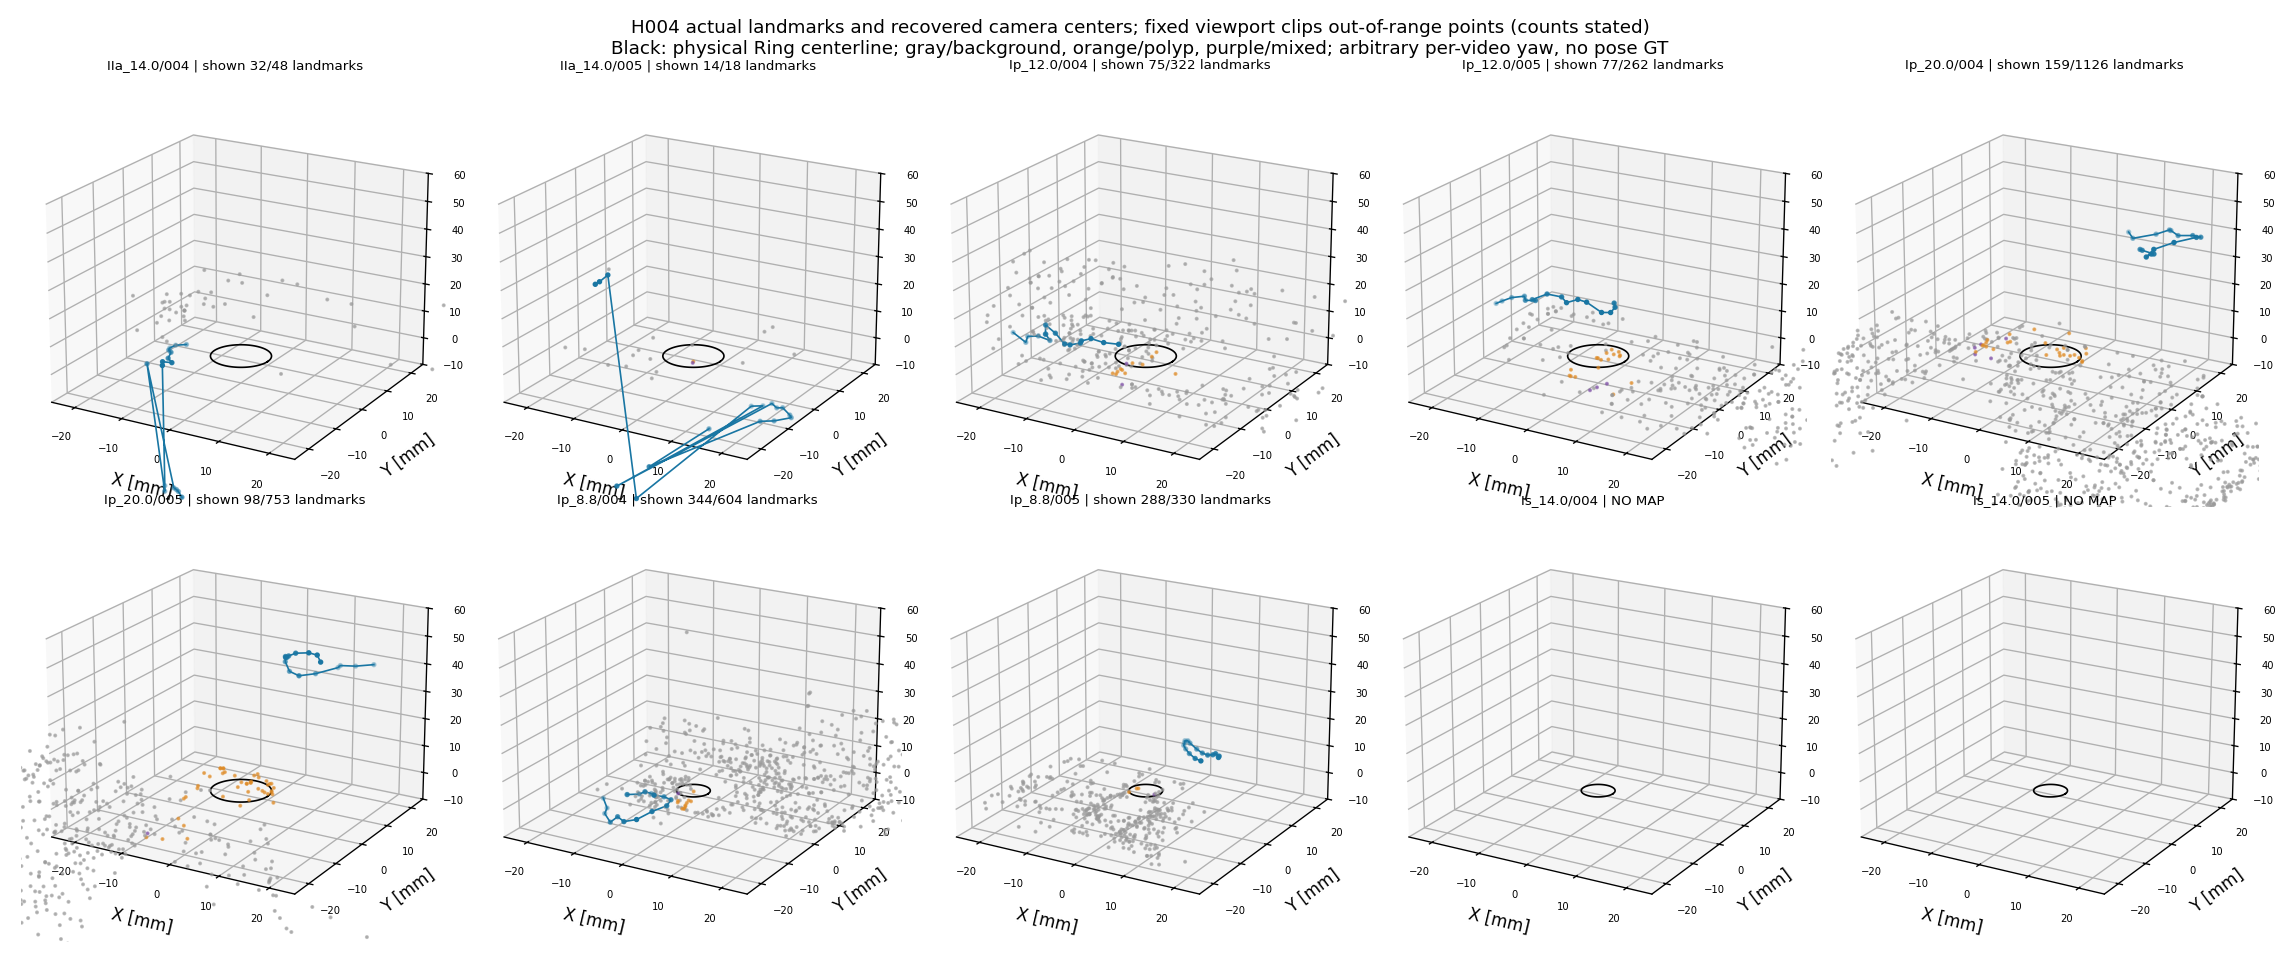
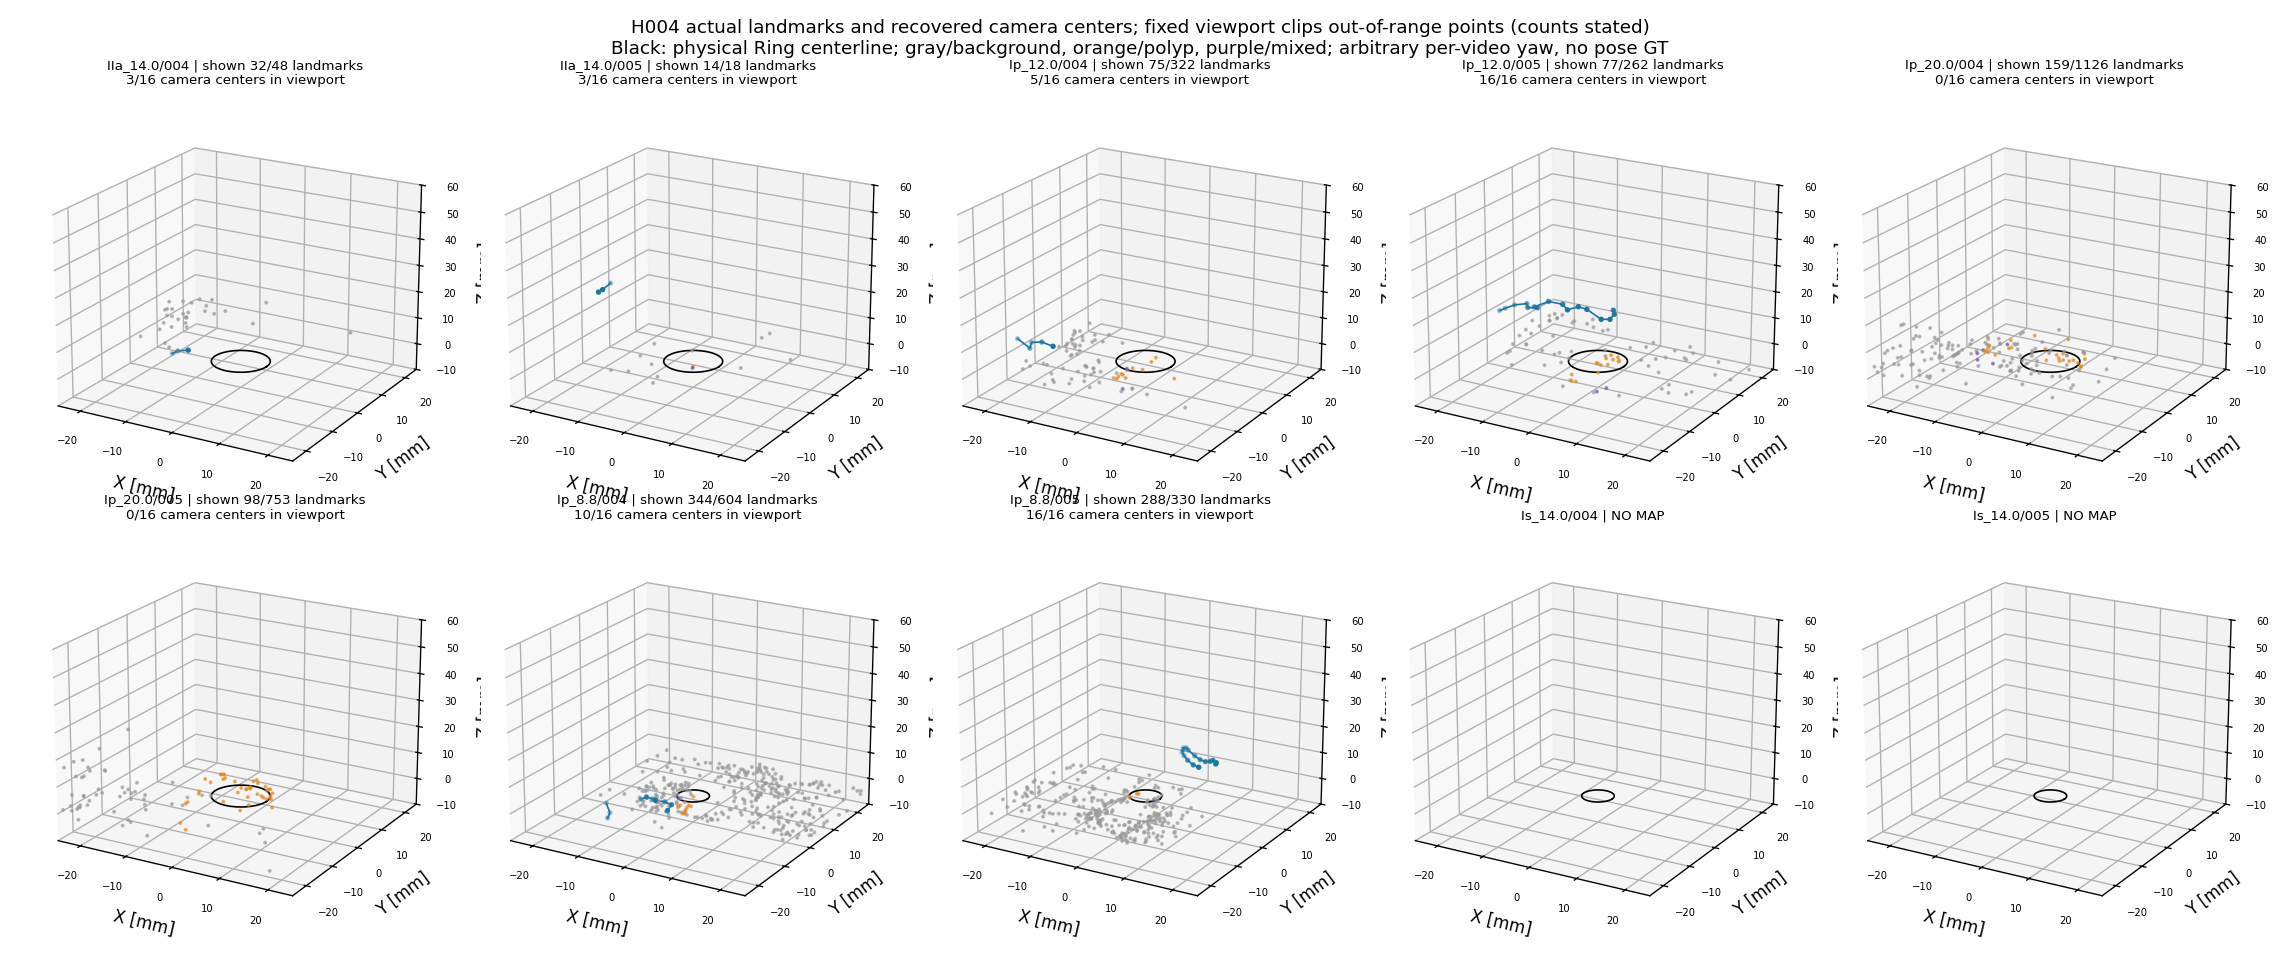
Make physical-viewport clipping explicit in evidence figures

diff --git a/experiments/TASK-M2F12-CLEANUP-AND-HISTORICAL-004-CAMERA-RESTORATION-001/figures/index.html b/experiments/TASK-M2F12-CLEANUP-AND-HISTORICAL-004-CAMERA-RESTORATION-001/figures/index.html
@@ -1,1 +1,1 @@
-<!doctype html><meta charset="utf-8"><title>M2F12 figures</title><h1>M2F12 evidence</h1><p>Real imagery and computed geometry. Ring dimensions and depth are in millimeters. No independent pose/shape GT. Native schedules differ; A→B B views are HERO supports.</p><p><a href="COMPARISON_OVERVIEW.png">Native coverage, fixed ten-video denominator</a></p><img style="max-width:1100px;width:100%" src="COMPARISON_OVERVIEW.png"><p><a href="LANDMARKS_AND_TRAJECTORIES.png">Actual landmarks/cameras, axes in mm</a></p><img style="max-width:1100px;width:100%" src="LANDMARKS_AND_TRAJECTORIES.png"><p><a href="H004_RAW_BASELINE__GP_IIa_14.0mm_closed_R10_single_refY_004.png">GP_IIa_14.0mm_closed_R10_single_refY_004 / H004_RAW_BASELINE</a></p><img style="max-width:1100px;width:100%" src="H004_RAW_BASELINE__GP_IIa_14.0mm_closed_R10_single_refY_004.png"><p><a href="H004_RAW_BASELINE__GP_Ip_12.0mm_closed_R10_single_refY_004.png">GP_Ip_12.0mm_closed_R10_single_refY_004 / H004_RAW_BASELINE</a></p><img style="max-width:1100px;width:100%" src="H004_RAW_BASELINE__GP_Ip_12.0mm_closed_R10_single_refY_004.png"><p><a href="H004_RAW_BASELINE__GP_Ip_12.0mm_closed_R10_single_refY_005.png">GP_Ip_12.0mm_closed_R10_single_refY_005 / H004_RAW_BASELINE</a></p><img style="max-width:1100px;width:100%" src="H004_RAW_BASELINE__GP_Ip_12.0mm_closed_R10_single_refY_005.png"><p><a href="H004_RAW_BASELINE__GP_Ip_20.0mm_closed_R10_single_refY_004.png">GP_Ip_20.0mm_closed_R10_single_refY_004 / H004_RAW_BASELINE</a></p><img style="max-width:1100px;width:100%" src="H004_RAW_BASELINE__GP_Ip_20.0mm_closed_R10_single_refY_004.png"><p><a href="H004_RAW_BASELINE__GP_Ip_20.0mm_closed_R10_single_refY_005.png">GP_Ip_20.0mm_closed_R10_single_refY_005 / H004_RAW_BASELINE</a></p><img style="max-width:1100px;width:100%" src="H004_RAW_BASELINE__GP_Ip_20.0mm_closed_R10_single_refY_005.png"><p><a href="H004_RAW_BASELINE__GP_Ip_8.8mm_closed_R5_single_refY_004.png">GP_Ip_8.8mm_closed_R5_single_refY_004 / H004_RAW_BASELINE</a></p><img style="max-width:1100px;width:100%" src="H004_RAW_BASELINE__GP_Ip_8.8mm_closed_R5_single_refY_004.png"><p><a href="H004_RAW_BASELINE__GP_Ip_8.8mm_closed_R5_single_refY_005.png">GP_Ip_8.8mm_closed_R5_single_refY_005 / H004_RAW_BASELINE</a></p><img style="max-width:1100px;width:100%" src="H004_RAW_BASELINE__GP_Ip_8.8mm_closed_R5_single_refY_005.png"><p><a href="V6_LIMITED_DIAGNOSTIC__GP_IIa_14.0mm_closed_R10_single_refY_004.png">GP_IIa_14.0mm_closed_R10_single_refY_004 / V6_LIMITED_DIAGNOSTIC</a></p><img style="max-width:1100px;width:100%" src="V6_LIMITED_DIAGNOSTIC__GP_IIa_14.0mm_closed_R10_single_refY_004.png"><p><a href="V6_LIMITED_DIAGNOSTIC__GP_Ip_12.0mm_closed_R10_single_refY_005.png">GP_Ip_12.0mm_closed_R10_single_refY_005 / V6_LIMITED_DIAGNOSTIC</a></p><img style="max-width:1100px;width:100%" src="V6_LIMITED_DIAGNOSTIC__GP_Ip_12.0mm_closed_R10_single_refY_005.png"><p><a href="V6_LIMITED_DIAGNOSTIC__GP_Ip_8.8mm_closed_R5_single_refY_004.png">GP_Ip_8.8mm_closed_R5_single_refY_004 / V6_LIMITED_DIAGNOSTIC</a></p><img style="max-width:1100px;width:100%" src="V6_LIMITED_DIAGNOSTIC__GP_Ip_8.8mm_closed_R5_single_refY_004.png"><p><a href="V6_LIMITED_DIAGNOSTIC__GP_Ip_8.8mm_closed_R5_single_refY_005.png">GP_Ip_8.8mm_closed_R5_single_refY_005 / V6_LIMITED_DIAGNOSTIC</a></p><img style="max-width:1100px;width:100%" src="V6_LIMITED_DIAGNOSTIC__GP_Ip_8.8mm_closed_R5_single_refY_005.png"><p><a href="V6_LIMITED_DIAGNOSTIC__GP_Is_14.0mm_closed_R5_single_refY_004.png">GP_Is_14.0mm_closed_R5_single_refY_004 / V6_LIMITED_DIAGNOSTIC</a></p><img style="max-width:1100px;width:100%" src="V6_LIMITED_DIAGNOSTIC__GP_Is_14.0mm_closed_R5_single_refY_004.png">
+<!doctype html><meta charset="utf-8"><title>M2F12 figures</title><h1>M2F12 evidence</h1><p>Real imagery and computed geometry. Ring dimensions and depth are in millimeters. Independent pose/registered-shape GT evaluation NOT_EVALUABLE. Native schedules differ; A→B B views are HERO supports.</p><p><a href="COMPARISON_OVERVIEW.png">Native coverage, fixed ten-video denominator</a></p><img style="max-width:1100px;width:100%" src="COMPARISON_OVERVIEW.png"><p><a href="LANDMARKS_AND_TRAJECTORIES.png">Actual landmarks/cameras, axes in mm</a></p><img style="max-width:1100px;width:100%" src="LANDMARKS_AND_TRAJECTORIES.png"><p><a href="H004_RAW_BASELINE__GP_IIa_14.0mm_closed_R10_single_refY_004.png">GP_IIa_14.0mm_closed_R10_single_refY_004 / H004_RAW_BASELINE</a></p><img style="max-width:1100px;width:100%" src="H004_RAW_BASELINE__GP_IIa_14.0mm_closed_R10_single_refY_004.png"><p><a href="H004_RAW_BASELINE__GP_Ip_12.0mm_closed_R10_single_refY_004.png">GP_Ip_12.0mm_closed_R10_single_refY_004 / H004_RAW_BASELINE</a></p><img style="max-width:1100px;width:100%" src="H004_RAW_BASELINE__GP_Ip_12.0mm_closed_R10_single_refY_004.png"><p><a href="H004_RAW_BASELINE__GP_Ip_12.0mm_closed_R10_single_refY_005.png">GP_Ip_12.0mm_closed_R10_single_refY_005 / H004_RAW_BASELINE</a></p><img style="max-width:1100px;width:100%" src="H004_RAW_BASELINE__GP_Ip_12.0mm_closed_R10_single_refY_005.png"><p><a href="H004_RAW_BASELINE__GP_Ip_20.0mm_closed_R10_single_refY_004.png">GP_Ip_20.0mm_closed_R10_single_refY_004 / H004_RAW_BASELINE</a></p><img style="max-width:1100px;width:100%" src="H004_RAW_BASELINE__GP_Ip_20.0mm_closed_R10_single_refY_004.png"><p><a href="H004_RAW_BASELINE__GP_Ip_20.0mm_closed_R10_single_refY_005.png">GP_Ip_20.0mm_closed_R10_single_refY_005 / H004_RAW_BASELINE</a></p><img style="max-width:1100px;width:100%" src="H004_RAW_BASELINE__GP_Ip_20.0mm_closed_R10_single_refY_005.png"><p><a href="H004_RAW_BASELINE__GP_Ip_8.8mm_closed_R5_single_refY_004.png">GP_Ip_8.8mm_closed_R5_single_refY_004 / H004_RAW_BASELINE</a></p><img style="max-width:1100px;width:100%" src="H004_RAW_BASELINE__GP_Ip_8.8mm_closed_R5_single_refY_004.png"><p><a href="H004_RAW_BASELINE__GP_Ip_8.8mm_closed_R5_single_refY_005.png">GP_Ip_8.8mm_closed_R5_single_refY_005 / H004_RAW_BASELINE</a></p><img style="max-width:1100px;width:100%" src="H004_RAW_BASELINE__GP_Ip_8.8mm_closed_R5_single_refY_005.png"><p><a href="V6_LIMITED_DIAGNOSTIC__GP_IIa_14.0mm_closed_R10_single_refY_004.png">GP_IIa_14.0mm_closed_R10_single_refY_004 / V6_LIMITED_DIAGNOSTIC</a></p><img style="max-width:1100px;width:100%" src="V6_LIMITED_DIAGNOSTIC__GP_IIa_14.0mm_closed_R10_single_refY_004.png"><p><a href="V6_LIMITED_DIAGNOSTIC__GP_Ip_12.0mm_closed_R10_single_refY_005.png">GP_Ip_12.0mm_closed_R10_single_refY_005 / V6_LIMITED_DIAGNOSTIC</a></p><img style="max-width:1100px;width:100%" src="V6_LIMITED_DIAGNOSTIC__GP_Ip_12.0mm_closed_R10_single_refY_005.png"><p><a href="V6_LIMITED_DIAGNOSTIC__GP_Ip_8.8mm_closed_R5_single_refY_004.png">GP_Ip_8.8mm_closed_R5_single_refY_004 / V6_LIMITED_DIAGNOSTIC</a></p><img style="max-width:1100px;width:100%" src="V6_LIMITED_DIAGNOSTIC__GP_Ip_8.8mm_closed_R5_single_refY_004.png"><p><a href="V6_LIMITED_DIAGNOSTIC__GP_Ip_8.8mm_closed_R5_single_refY_005.png">GP_Ip_8.8mm_closed_R5_single_refY_005 / V6_LIMITED_DIAGNOSTIC</a></p><img style="max-width:1100px;width:100%" src="V6_LIMITED_DIAGNOSTIC__GP_Ip_8.8mm_closed_R5_single_refY_005.png"><p><a href="V6_LIMITED_DIAGNOSTIC__GP_Is_14.0mm_closed_R5_single_refY_004.png">GP_Is_14.0mm_closed_R5_single_refY_004 / V6_LIMITED_DIAGNOSTIC</a></p><img style="max-width:1100px;width:100%" src="V6_LIMITED_DIAGNOSTIC__GP_Is_14.0mm_closed_R5_single_refY_004.png">

diff --git a/experiments/TASK-M2F12-CLEANUP-AND-HISTORICAL-004-CAMERA-RESTORATION-001/code/visualize_results.py b/experiments/TASK-M2F12-CLEANUP-AND-HISTORICAL-004-CAMERA-RESTORATION-001/code/visualize_results.py
@@ -20,16 +20,16 @@ for j,r in enumerate(registry):
  ax=fig.add_subplot(2,5,j+1,projection='3d');R=B/'H004_RAW_BASELINE'/r['case'];p=R/'landmarks/INDEPENDENT_VIDEO.npz';th=np.linspace(0,2*np.pi,120);rad=r['ring_inner_mm']/2+.6
  ax.plot(rad*np.cos(th),rad*np.sin(th),np.zeros_like(th),color='black',linewidth=1)
  if p.exists():
-  X=np.load(p)['X'];a=json.loads((R/'landmarks/BUILD_AUDIT.json').read_text());qc=[x for x in a['tracks']if x['qualified']];colors=['#df8a24'if x['category']=='polyp'else'#7c4da5'if x['category']=='mixed'else'#999999'for x in qc];ax.scatter(*X.T,c=colors,s=2,alpha=.6)
-  cs=json.loads((R/'registration/CAMERAS.json').read_text());C=np.array([v['C']for v in cs if v['C']is not None]);ax.plot(*C[:,:3,3].T,color='#1976a3',linewidth=1);ax.scatter(*C[:,:3,3].T,c='#1976a3',s=5)
-  shown=((X[:,0]>=-25)&(X[:,0]<=25)&(X[:,1]>=-25)&(X[:,1]<=25)&(X[:,2]>=-10)&(X[:,2]<=60)).sum();title=f"{labels[j]} | shown {shown}/{len(X)} landmarks"
+  X=np.load(p)['X'];a=json.loads((R/'landmarks/BUILD_AUDIT.json').read_text());qc=[x for x in a['tracks']if x['qualified']];colors=np.array(['#df8a24'if x['category']=='polyp'else'#7c4da5'if x['category']=='mixed'else'#999999'for x in qc]);inside=lambda P: np.all((P>=np.array([-25,-25,-10]))&(P<=np.array([25,25,60])),axis=1);visible=inside(X);ax.scatter(*X[visible].T,c=colors[visible],s=2,alpha=.6)
+  cs=json.loads((R/'registration/CAMERAS.json').read_text());C=np.array([v['C']for v in cs if v['C']is not None]);centers=C[:,:3,3];camera_visible=inside(centers);display=centers.copy();display[~camera_visible]=np.nan;ax.plot(*display.T,color='#1976a3',linewidth=1);ax.scatter(*centers[camera_visible].T,c='#1976a3',s=5)
+  shown=((X[:,0]>=-25)&(X[:,0]<=25)&(X[:,1]>=-25)&(X[:,1]<=25)&(X[:,2]>=-10)&(X[:,2]<=60)).sum();title=f"{labels[j]} | shown {shown}/{len(X)} landmarks\n{int(camera_visible.sum())}/{len(centers)} camera centers in viewport"
  else:title=labels[j]+' | NO MAP'
  ax.set_title(title,fontsize=8);ax.set(xlim=(-25,25),ylim=(-25,25),zlim=(-10,60),xlabel='X [mm]',ylabel='Y [mm]',zlabel='Z [mm]');ax.tick_params(labelsize=6);ax.view_init(20,-60)
 fig.suptitle('H004 actual landmarks and recovered camera centers; fixed viewport clips out-of-range points (counts stated)\nBlack: physical Ring centerline; gray/background, orange/polyp, purple/mixed; arbitrary per-video yaw, no pose GT',fontsize=11);fig.tight_layout();fig.savefig(F/'LANDMARKS_AND_TRAJECTORIES.png',dpi=120);plt.close(fig)
 links=[('COMPARISON_OVERVIEW.png','Native coverage, fixed ten-video denominator'),('LANDMARKS_AND_TRAJECTORIES.png','Actual landmarks/cameras, axes in mm')]
 for p in sorted((B/'HERO_LIMITED').glob('*/*/HERO_A_TO_B.png')):
  name=p.parent.parent.name+'__'+p.parent.name+'.png';shutil.copyfile(p,F/name);links.append((name,p.parent.name+' / '+p.parent.parent.name))
-html='<!doctype html><meta charset="utf-8"><title>M2F12 figures</title><h1>M2F12 evidence</h1><p>Real imagery and computed geometry. Ring dimensions and depth are in millimeters. No independent pose/shape GT. Native schedules differ; A→B B views are HERO supports.</p>'
+html='<!doctype html><meta charset="utf-8"><title>M2F12 figures</title><h1>M2F12 evidence</h1><p>Real imagery and computed geometry. Ring dimensions and depth are in millimeters. Independent pose/registered-shape GT evaluation NOT_EVALUABLE. Native schedules differ; A→B B views are HERO supports.</p>'
 html+=''.join('<p><a href="'+p+'">'+title+'</a></p><img style="max-width:1100px;width:100%" src="'+p+'">'for p,title in links);(F/'index.html').write_text(html)
 (T/'VISUALIZATION_INDEX.md').write_text('# Visualization index\n\nFixed 5 groups / 10 videos. Real images, physical mm units, independent pose/registered-shape GT evaluation NOT_EVALUABLE.\n\n'+''.join('- ['+title+'](figures/'+p+')\n'for p,title in links)+'\n[HTML gallery](figures/index.html)\n')
 print('FIGURES',len(links))
